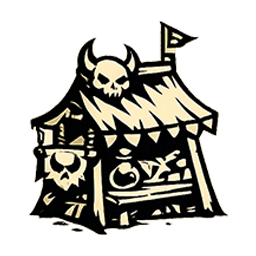
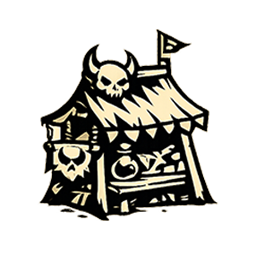
Map Assets

Changed region(s): [[0.0938, 0.0625, 0.9062, 0.9375]]

diff --git a/Assets/Scripts/Map/UIMapTileView.cs b/Assets/Scripts/Map/UIMapTileView.cs
@@ -28,11 +28,16 @@ public class UIMapTileView : MonoBehaviour
     [Header("Optional")]
     [SerializeField] private TMP_Text nodeTypeLabel;
     [SerializeField] private Image eventIconImage;
+    [Header("Visited tiles")]
+    [Tooltip("Tint for the event icon after this tile's event was completed (sprite stays visible).")]
+    [SerializeField] private Color visitedEventIconColor = new Color(0.65f, 0.65f, 0.7f, 0.9f);
 
     private Vector2Int _cell;
     private MapMovementManager _manager;
     private int _lastExitMask;
     private bool _playerOnThisTile;
+    /// <summary>Tile has an event icon sprite; hidden while <see cref="_playerOnThisTile"/>.</summary>
+    private bool _eventIconActiveForTile;
 
     private void Awake()
     {
@@ -76,17 +81,23 @@ public class UIMapTileView : MonoBehaviour
                 nodeTypeLabel.text = tile.eventType.ToString();
         }
 
+        _eventIconActiveForTile = false;
         if (eventIconImage != null)
         {
             if (tile.eventConsumed)
             {
+                Sprite sp = null;
                 if (presentation != null && presentation.visitedTileIcon != null)
+                    sp = presentation.visitedTileIcon;
+                else if (presentation != null)
+                    sp = presentation.GetEventIcon(tile.eventType, isStart, isBoss);
+
+                if (sp != null)
                 {
-                    eventIconImage.sprite = presentation.visitedTileIcon;
-                    eventIconImage.enabled = true;
+                    eventIconImage.sprite = sp;
+                    eventIconImage.color = visitedEventIconColor;
+                    _eventIconActiveForTile = true;
                 }
-                else
-                    eventIconImage.enabled = false;
             }
             else if (presentation != null)
             {
@@ -94,16 +105,14 @@ public class UIMapTileView : MonoBehaviour
                 if (sp != null)
                 {
                     eventIconImage.sprite = sp;
-                    eventIconImage.enabled = true;
+                    eventIconImage.color = Color.white;
+                    _eventIconActiveForTile = true;
                 }
-                else
-                    eventIconImage.enabled = false;
             }
-            else
-                eventIconImage.enabled = false;
         }
 
         _playerOnThisTile = manager != null && cell == manager.PlayerGridPosition;
+        ApplyEventIconVisibilityForStanding();
         ApplyExitMask(tile.exitMask);
     }
 
@@ -111,7 +120,21 @@ public class UIMapTileView : MonoBehaviour
     public void SetPlayerStandingHere(bool standingHere)
     {
         _playerOnThisTile = standingHere;
+        ApplyEventIconVisibilityForStanding();
         ApplyExitMask(_lastExitMask);
+    }
+
+    private void ApplyEventIconVisibilityForStanding()
+    {
+        if (eventIconImage == null)
+            return;
+        if (!_eventIconActiveForTile)
+        {
+            eventIconImage.enabled = false;
+            return;
+        }
+
+        eventIconImage.enabled = !_playerOnThisTile;
     }
 
     public void RefreshExits(MapGrid grid)